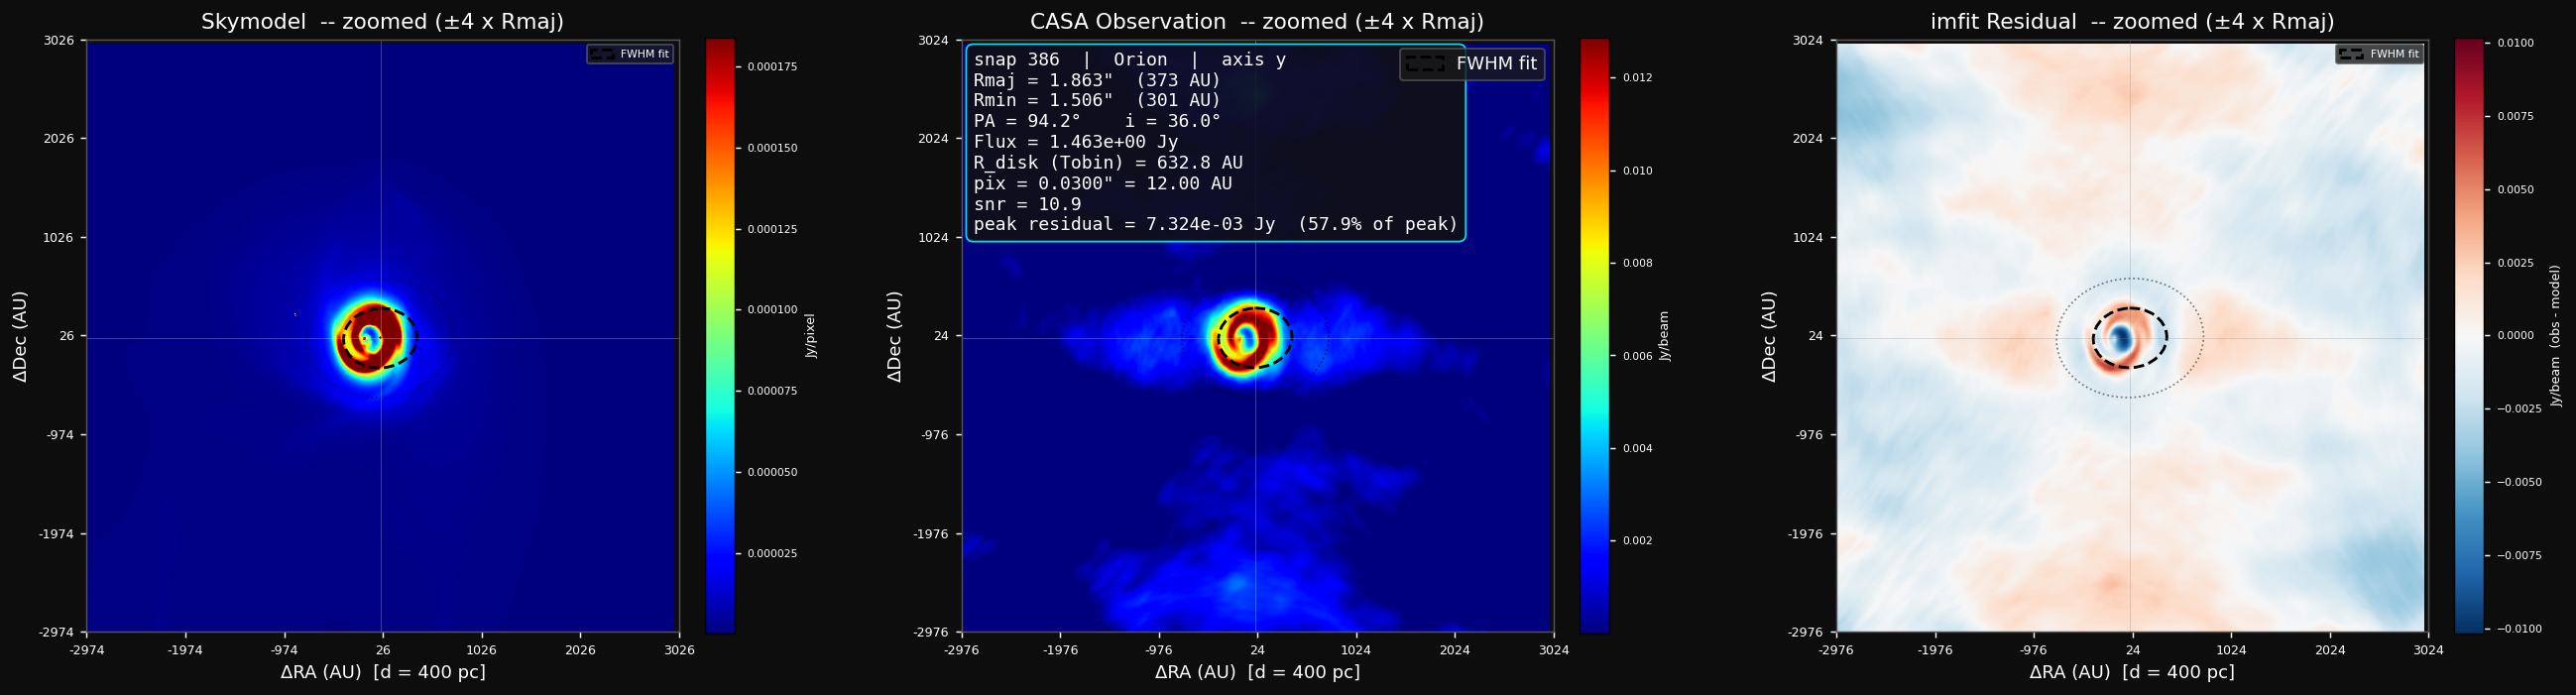
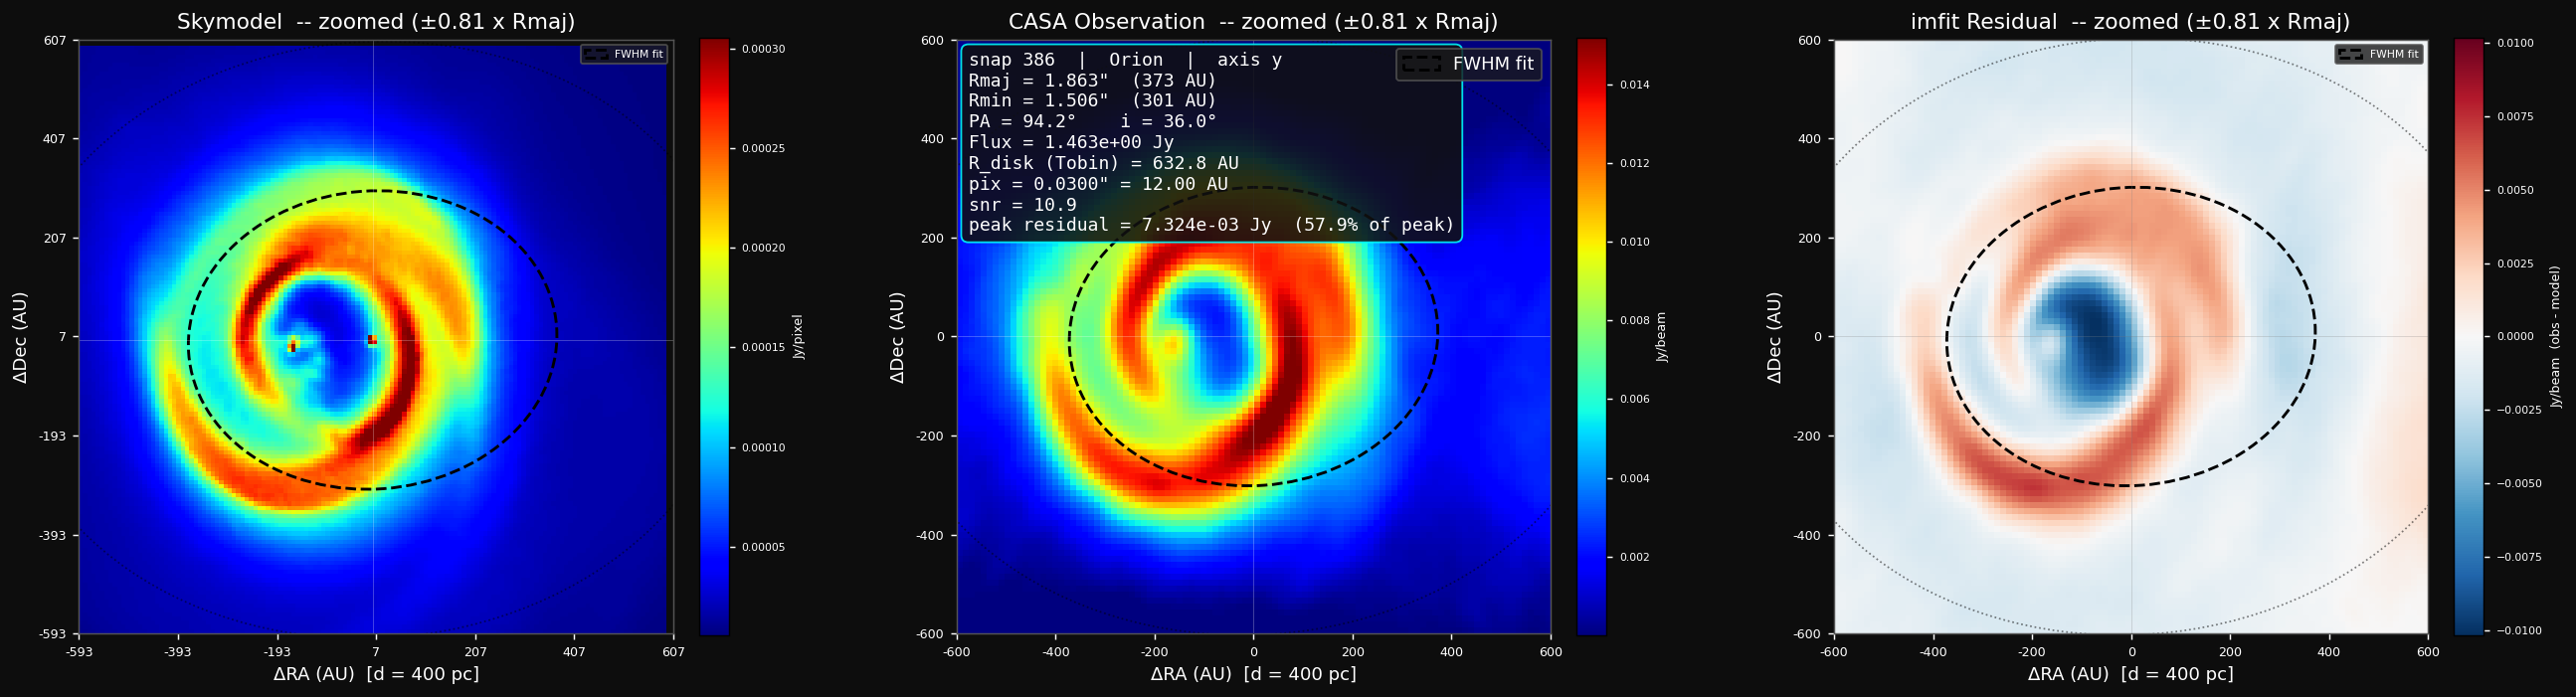
Zoom snap386 Orion three-panel figure to +-600 AU
The previous ±4×Rmaj crop (~3000 AU) buried the disk in a few dozen
pixels; regenerating at a fixed ±600 AU (1200x1200 AU) field of view
resolves the spiral structure in the skymodel, observation, and
residual panels. Also format the zoom-factor annotation in panel
titles to 2 decimals so non-integer factors don't spill unbounded
float precision into the plot.

diff --git a/plotting_utils.py b/plotting_utils.py
@@ -246,7 +246,7 @@ def plot_three_panel(pbcor_fpath, fit, skymodel_dir, residual_dir,
     add_AU_ticks(ax_sky, sky_cx, sky_cy, sx0, sx1, sy0, sy1, sky_pix_as, distance_pc)
     ax_sky.set_xlabel(f"ΔRA (AU)  [d = {distance_pc} pc]", color="white")
     ax_sky.set_ylabel("ΔDec (AU)", color="white")
-    ax_sky.set_title(f"Skymodel  -- zoomed (±{zoom_factor} x Rmaj)", color="white")
+    ax_sky.set_title(f"Skymodel  -- zoomed (±{zoom_factor:.2f} x Rmaj)", color="white")
     ax_sky.legend(loc="upper right", facecolor="#1a1a1a", edgecolor="#555", labelcolor="white", fontsize=6)
     add_colorbar(fig, im0, ax_sky, sky_hdr.get("BUNIT", "Jy/pixel"))
 
@@ -263,7 +263,7 @@ def plot_three_panel(pbcor_fpath, fit, skymodel_dir, residual_dir,
     add_AU_ticks(ax_obs, pb_cx, pb_cy, px0, px1, py0, py1, pb_pix_as, distance_pc)
     ax_obs.set_xlabel(f"ΔRA (AU)  [d = {distance_pc} pc]", color="white")
     ax_obs.set_ylabel("ΔDec (AU)", color="white")
-    ax_obs.set_title(f"CASA Observation  -- zoomed (±{zoom_factor} x Rmaj)", color="white")
+    ax_obs.set_title(f"CASA Observation  -- zoomed (±{zoom_factor:.2f} x Rmaj)", color="white")
     ax_obs.legend(loc="upper right", facecolor="#1a1a1a", edgecolor="#555", labelcolor="white")
     add_colorbar(fig, im1, ax_obs, pb_hdr.get("BUNIT", "Jy/beam"))
 
@@ -300,7 +300,7 @@ def plot_three_panel(pbcor_fpath, fit, skymodel_dir, residual_dir,
     add_AU_ticks(ax_res, res_cx, res_cy, rx0, rx1, ry0, ry1, res_pix_as, distance_pc)
     ax_res.set_xlabel(f"ΔRA (AU)  [d = {distance_pc} pc]", color="white")
     ax_res.set_ylabel("ΔDec (AU)", color="white")
-    ax_res.set_title(f"imfit Residual  -- zoomed (±{zoom_factor} x Rmaj)", color="white")
+    ax_res.set_title(f"imfit Residual  -- zoomed (±{zoom_factor:.2f} x Rmaj)", color="white")
     ax_res.legend(loc="upper right", facecolor="#1a1a1a", edgecolor="#555", labelcolor="white", fontsize=6)
     add_colorbar(fig, im2, ax_res, "Jy/beam  (obs - model)")
 

diff --git a/README.md b/README.md
@@ -14,7 +14,7 @@ snapshots at very different disk sizes/inclinations.
 **Snapshot 170 — Orion — axis y**
 ![Snapshot 170, Orion, axis y](figures/snap170_Orion_axisy_three_panel.png)
 
-**Snapshot 386 — Orion — axis y**
+**Snapshot 386 — Orion — axis y** (zoomed to a ±600 AU / 1200 AU × 1200 AU field of view, revealing the spiral structure)
 ![Snapshot 386, Orion, axis y](figures/snap386_Orion_axisy_three_panel.png)
 
 ---